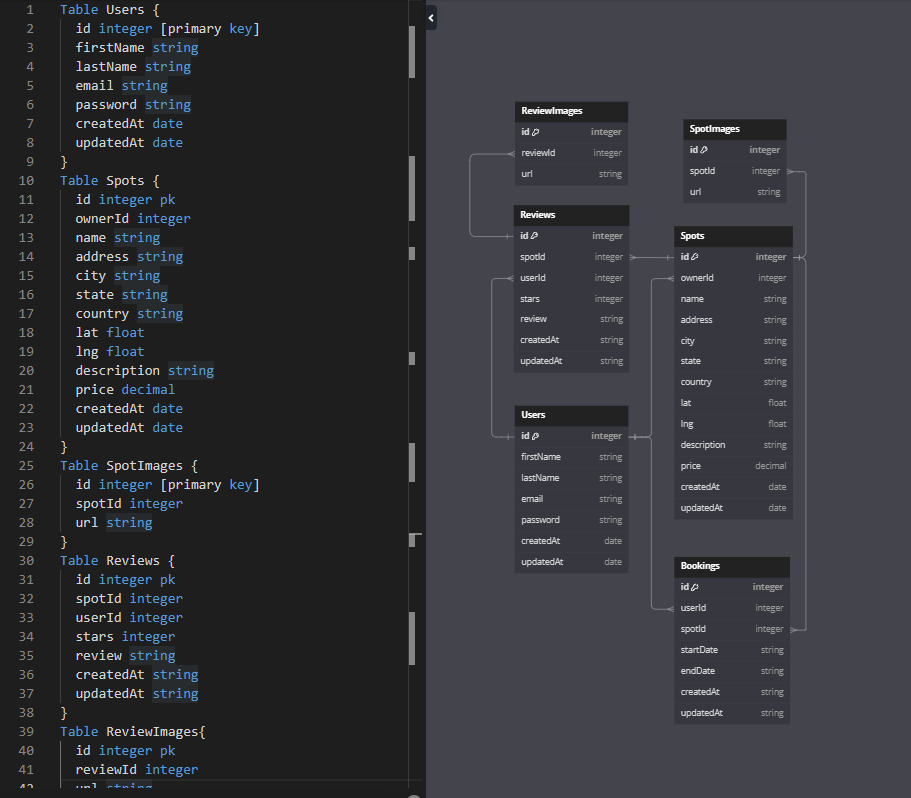
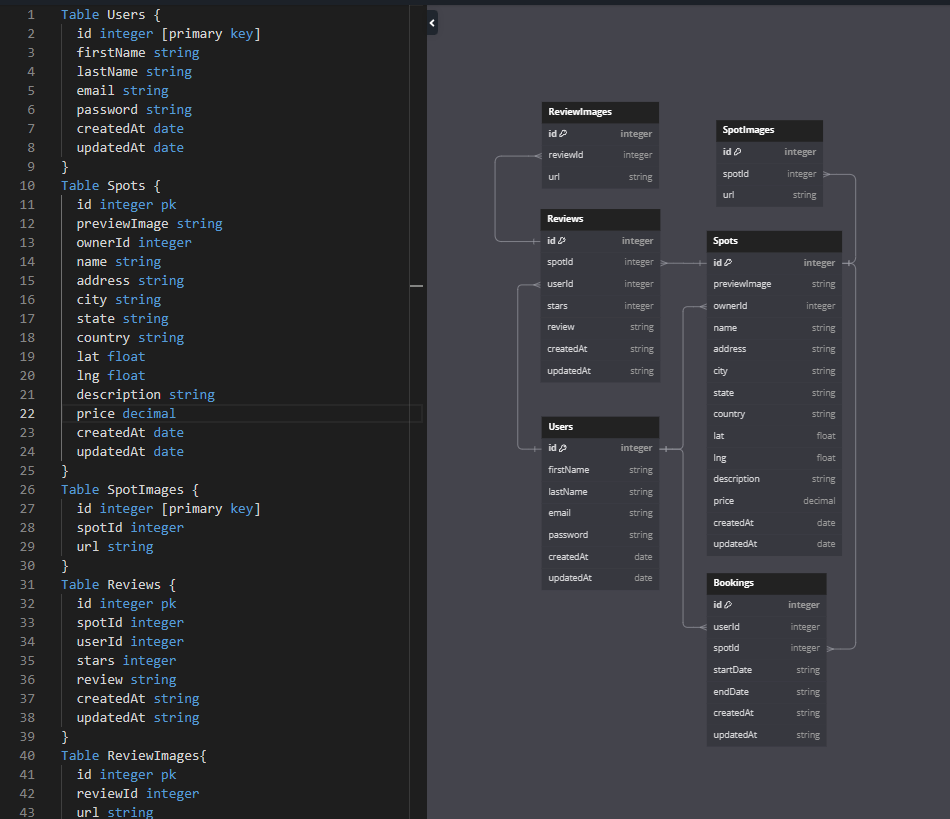
added previewImage to spots

diff --git a/API-docs-AirBnB.md b/API-docs-AirBnB.md
@@ -50,7 +50,7 @@ Returns the information about the current user that is logged in.
 * Require Authentication: true
 * Request
   * Method: GET
-  * URL: /
+  * URL: /api/users/:username
   * Body: none
 
 * Successful Response when there is a logged in user
@@ -288,7 +288,7 @@ Returns all the spots owned (created) by the current user.
 * Require Authentication: true
 * Request
   * Method: GET
-  * URL: /api/spots/currentUser
+  * URL: /api/spots/:username
   * Body: none
 
 * Successful Response
@@ -467,7 +467,7 @@ Create and return a new image for a spot specified by id.
 * Require proper authorization: Spot must belong to the current user
 * Request
   * Method: POST
-  * URL: /api/spots/:id/images/
+  * URL: /api/spots/:id/images
   * Headers:
     * Content-Type: application/json
   * Body:
@@ -598,8 +598,8 @@ Deletes an existing spot.
 * Require Authentication: true
 * Require proper authorization: Spot must belong to the current user
 * Request
-  * Method: 
-  * URL: ?
+  * Method: DELETE
+  * URL: /api/spots/:id
   * Body: none
 
 * Successful Response
@@ -634,8 +634,8 @@ Returns all the reviews written by the current user.
 
 * Require Authentication: true
 * Request
-  * Method: ?
-  * URL: ?
+  * Method: 
+  * URL: /api/reviews/:username
   * Body: none
 
 * Successful Response
@@ -690,8 +690,8 @@ Returns all the reviews that belong to a spot specified by id.
 
 * Require Authentication: false
 * Request
-  * Method: ?
-  * URL: ?
+  * Method: GET
+  * URL: /api/reviews/:spotId
   * Body: none
 
 * Successful Response
@@ -745,8 +745,8 @@ Create and return a new review for a spot specified by id.
 
 * Require Authentication: true
 * Request
-  * Method: ?
-  * URL: ?
+  * Method: POST
+  * URL: /api/reviews/:spotId
   * Headers:
     * Content-Type: application/json
   * Body:
@@ -823,8 +823,8 @@ Create and return a new image for a review specified by id.
 * Require Authentication: true
 * Require proper authorization: Review must belong to the current user
 * Request
-  * Method: ?
-  * URL: ?
+  * Method: POST
+  * URL: /api/images/:spotId
   * Headers:
     * Content-Type: application/json
   * Body:
